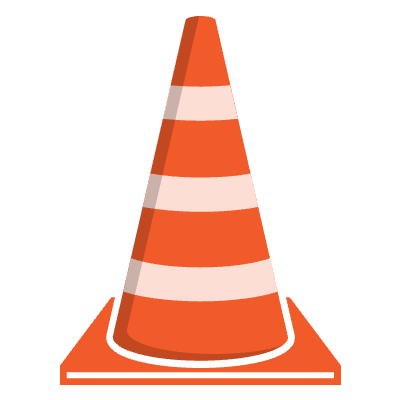
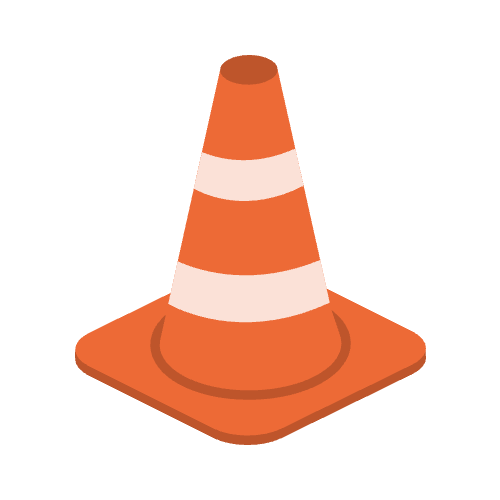
feat: add construction indicator in my 4q and liked 4q page

Changed region(s): [[0.15, 0.03, 0.87, 0.96]]

diff --git a/app/(pages)/4q-gallery/page.tsx b/app/(pages)/4q-gallery/page.tsx
@@ -1,13 +1,15 @@
 import styles from './page.module.css'
-import construction from '../../../public/images/construction.png'
+import construction from '../../../../public/images/construction.png'
 
 export default function Page() {
     return (
         <div className={styles.container}>
             <img src={construction.src} alt="construction"/>
-            <div>
-                갤러리가 공사중입니다!
-
+            <div className={styles.title}>
+               현재 페이지는 <span className={styles.orange}>공사중</span>입니다.
+            </div>
+            <div className={styles.subTitle}>
+                "빠른 시일 내에 오픈하도록 노력하겠습니다."
             </div>
         </div>
     );

diff --git a/app/(pages)/mypage/liked-4q/page.tsx b/app/(pages)/mypage/liked-4q/page.tsx
@@ -1,9 +1,16 @@
 import styles from './page.module.css'
+import construction from '../../../../public/images/construction.png'
 
 export default function Page() {
     return (
         <div className={styles.container}>
-            좋아요한 4Q
+            <img src={construction.src} alt="construction"/>
+            <div className={styles.title}>
+               현재 페이지는 <span className={styles.orange}>공사중</span>입니다.
+            </div>
+            <div className={styles.subTitle}>
+                "빠른 시일 내에 오픈하도록 노력하겠습니다."
+            </div>
         </div>
     );
 }

diff --git a/app/(pages)/mypage/my-4q/page.tsx b/app/(pages)/mypage/my-4q/page.tsx
@@ -1,9 +1,16 @@
 import styles from './page.module.css'
+import construction from '../../../../public/images/construction.png'
 
 export default function Page() {
     return (
         <div className={styles.container}>
-            나의 4Q
+            <img src={construction.src} alt="construction"/>
+            <div className={styles.title}>
+               현재 페이지는 <span className={styles.orange}>공사중</span>입니다.
+            </div>
+            <div className={styles.subTitle}>
+                "빠른 시일 내에 오픈하도록 노력하겠습니다."
+            </div>
         </div>
     );
 }

diff --git a/app/(pages)/mypage/liked-4q/page.module.css b/app/(pages)/mypage/liked-4q/page.module.css
@@ -1,0 +1,33 @@
+.container {
+    display: flex;
+    flex-direction: column;
+    justify-content: center;
+    align-items: center;
+    padding: 40px;
+
+}
+
+.container img {
+    margin-top: 40px;
+    width: 300px;
+}
+
+.container div {
+    margin-top: 20px;
+}
+
+.title {
+    font-size: 18px;
+    color: var(--grey-color);
+}
+
+.orange {
+    color: var(--primary-color);
+    font-weight: bold;
+    font-size: 24px;
+}
+
+.subTitle {
+    font-size: 16x;
+    color: rgb(116, 116, 116);
+}

diff --git a/app/(pages)/mypage/my-4q/page.module.css b/app/(pages)/mypage/my-4q/page.module.css
@@ -1,0 +1,33 @@
+.container {
+    display: flex;
+    flex-direction: column;
+    justify-content: center;
+    align-items: center;
+    padding: 40px;
+
+}
+
+.container img {
+    margin-top: 40px;
+    width: 300px;
+}
+
+.container div {
+    margin-top: 20px;
+}
+
+.title {
+    font-size: 18px;
+    color: var(--grey-color);
+}
+
+.orange {
+    color: var(--primary-color);
+    font-weight: bold;
+    font-size: 24px;
+}
+
+.subTitle {
+    font-size: 16x;
+    color: rgb(116, 116, 116);
+}

diff --git a/app/(pages)/4q-create/page.module.css b/app/(pages)/4q-create/page.module.css
@@ -1,4 +1,5 @@
 .container {
+    height: 100vh;
     /*width: 80%;*/
     padding: 20px;
     margin-top: 10px;
@@ -15,15 +16,13 @@
     height: 80px;
     align-items: center;
     /*padding-left: 30px;*/
-    margin-top: 40px;
+    /* margin-top: 40px; */
     justify-content: flex-start;
     text-align: center;
-
     display: flex;
     flex-direction: column;
-
     position: fixed;
-    bottom: 16%;
+    bottom: 20%;
     left: 50%;
     transform: translateX(-50%);
 }

diff --git a/app/(layouts)/header.module.css b/app/(layouts)/header.module.css
@@ -68,7 +68,6 @@
     top: 50%;
     left: 50%;
     transform: translate(-50%, -50%);
-
     font-size: 18px;
 
 }
@@ -124,7 +123,7 @@
     text-align: center;
     margin-bottom: 30px;
     font-size: 20px;
-    font-weight: 500;
+    font-weight: 700;
     list-style-type: none;
 }
 
@@ -134,7 +133,7 @@
     display: inline-block;
     text-decoration: none;
     color: #fff;
-    font-weight: 500;
+    font-weight: 700;
     vertical-align: top;
 }
 

diff --git a/app/(pages)/4q-create/_components/second.module.css b/app/(pages)/4q-create/_components/second.module.css
@@ -8,18 +8,19 @@
 
 .loadingContainer {
     width: 100%;
-    height: 100%;
+    height: 80%;
     /* background-color: red; */
     display: flex;
     flex-direction: column;
     justify-content: center;
     align-items: center;
     position: relative;
+    /* padding-bottom: 30px; */
 }
 
 .loadingText {
     position: absolute;
-    bottom: -180px;
+    bottom: -220px;
     color: #000;
 }
 

diff --git a/app/(pages)/4q-gallery/page.module.css b/app/(pages)/4q-gallery/page.module.css
@@ -9,9 +9,25 @@
 
 .container img {
     margin-top: 40px;
-    width: 200px;
+    width: 300px;
 }
 
 .container div {
     margin-top: 20px;
+}
+
+.title {
+    font-size: 18px;
+    color: var(--grey-color);
+}
+
+.orange {
+    color: var(--primary-color);
+    font-weight: bold;
+    font-size: 24px;
+}
+
+.subTitle {
+    font-size: 16x;
+    color: rgb(116, 116, 116);
 }
